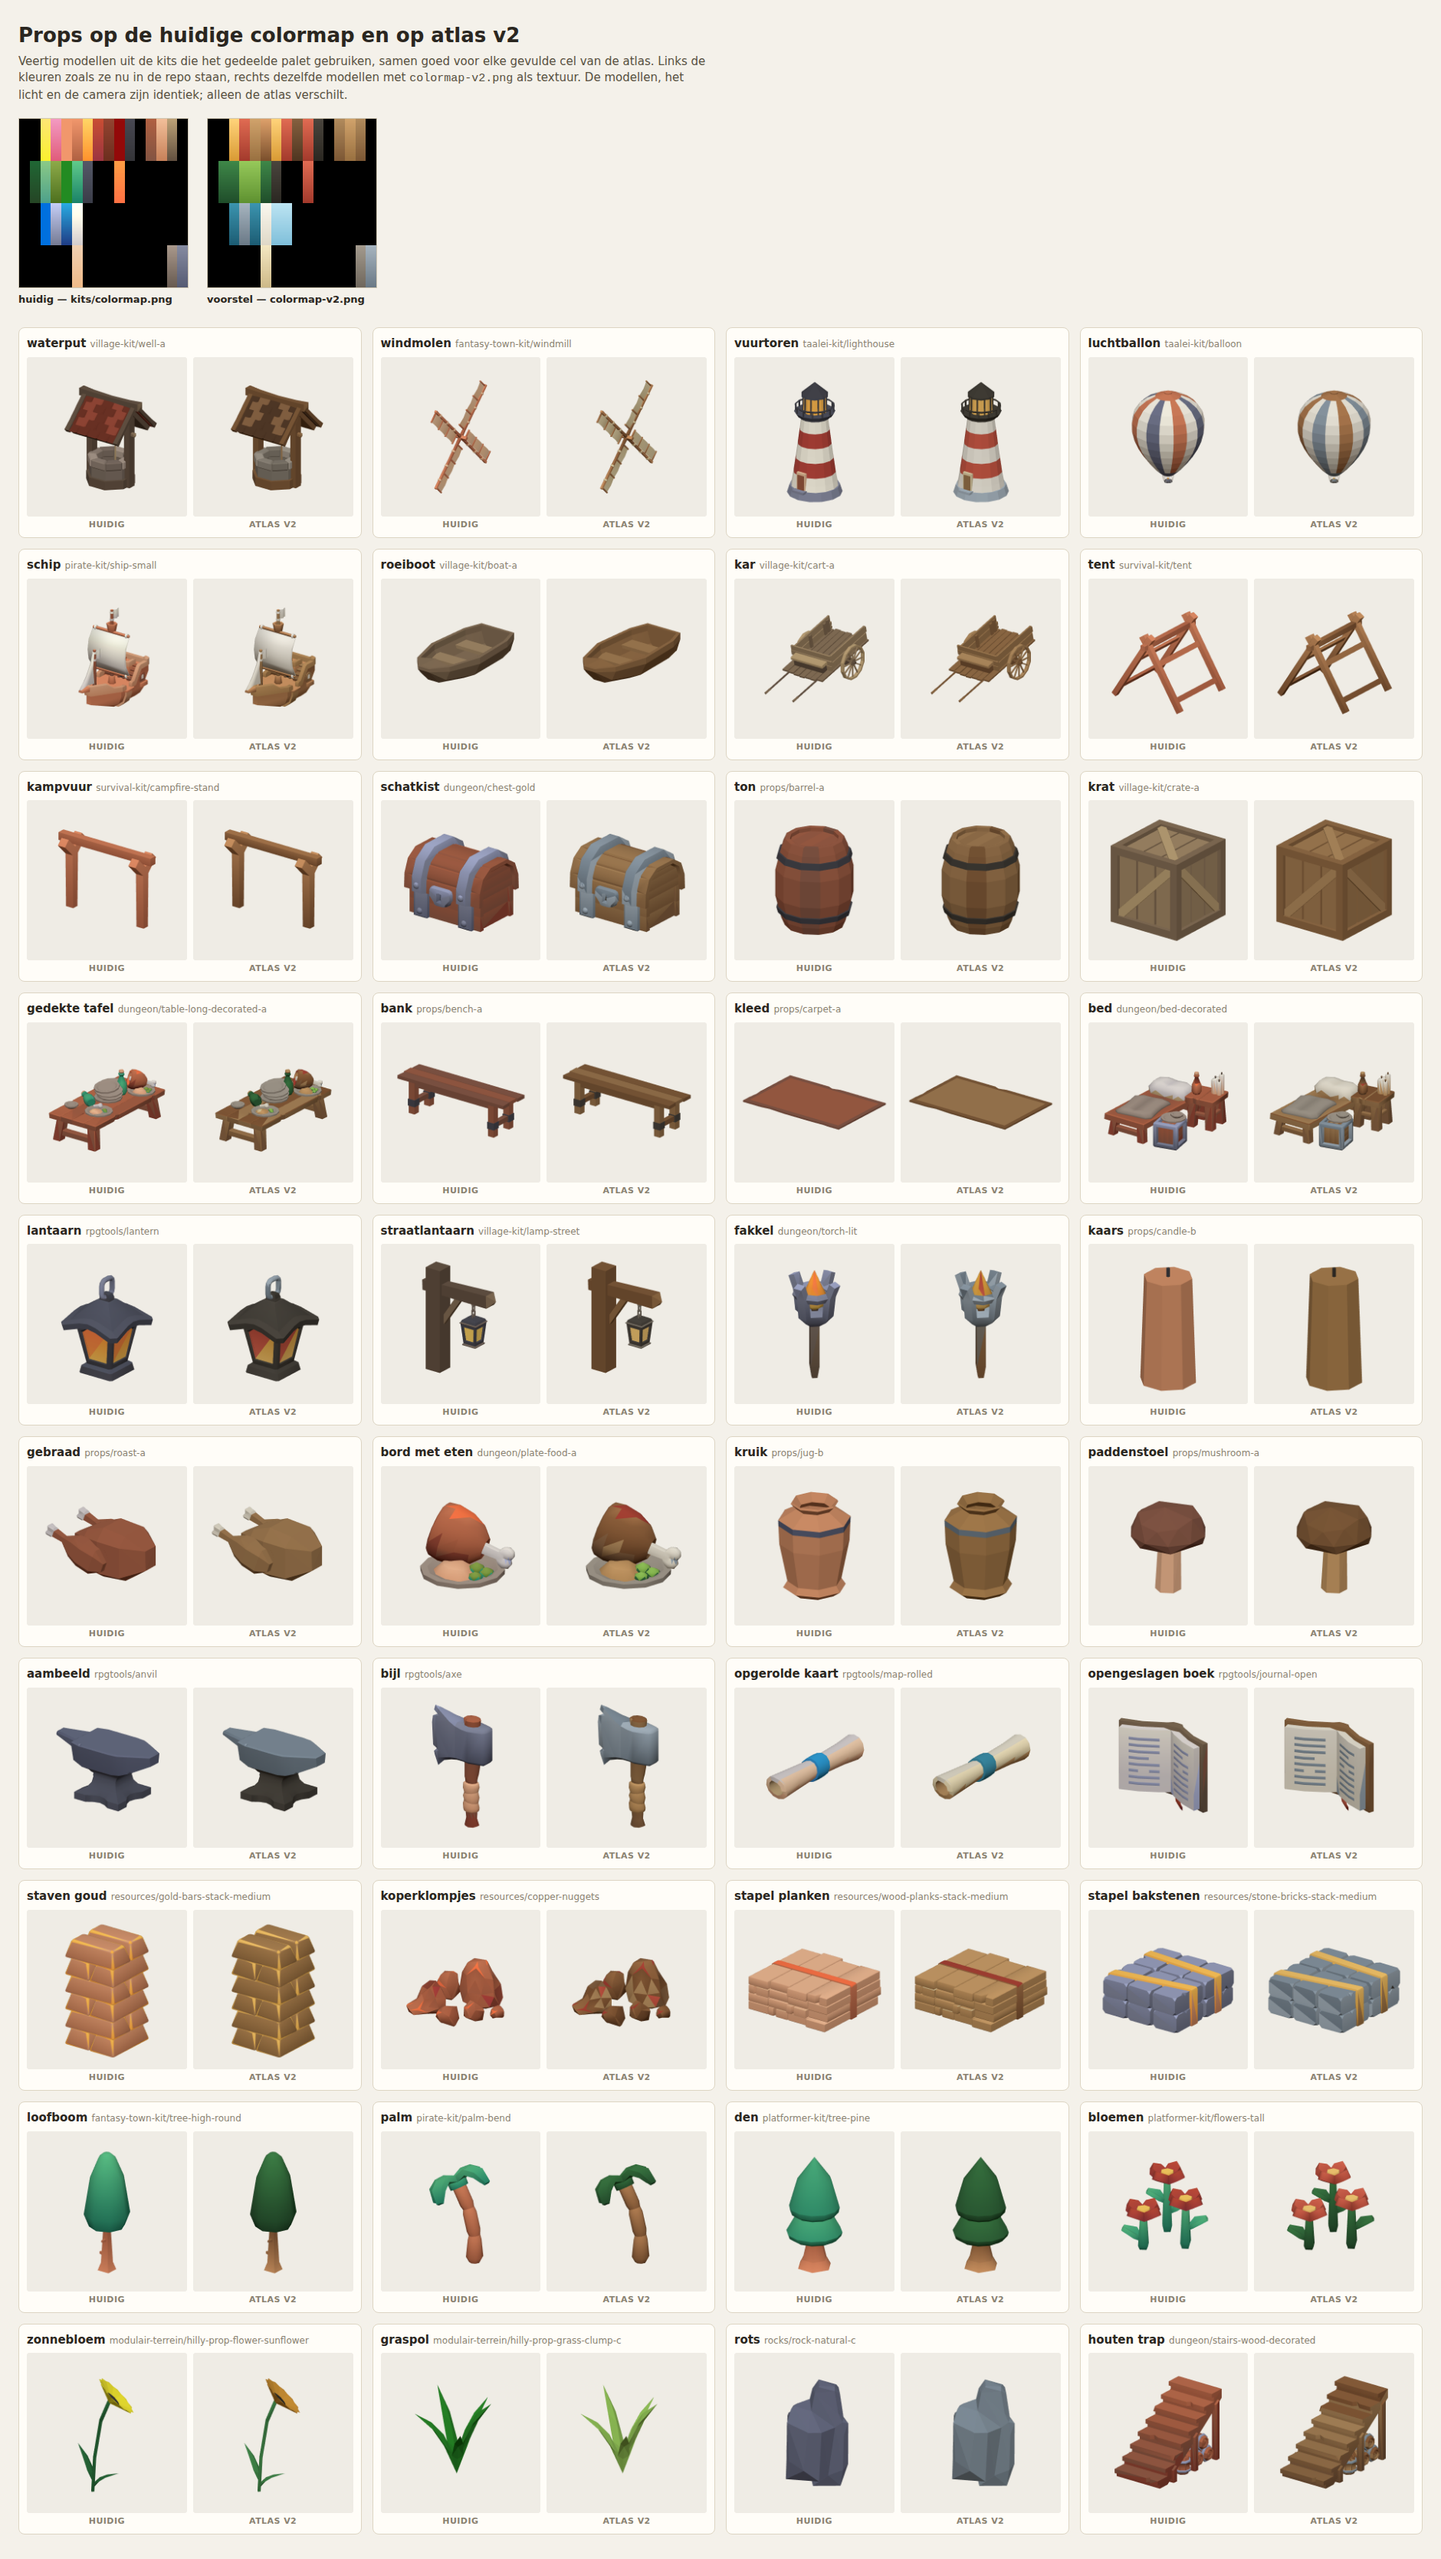
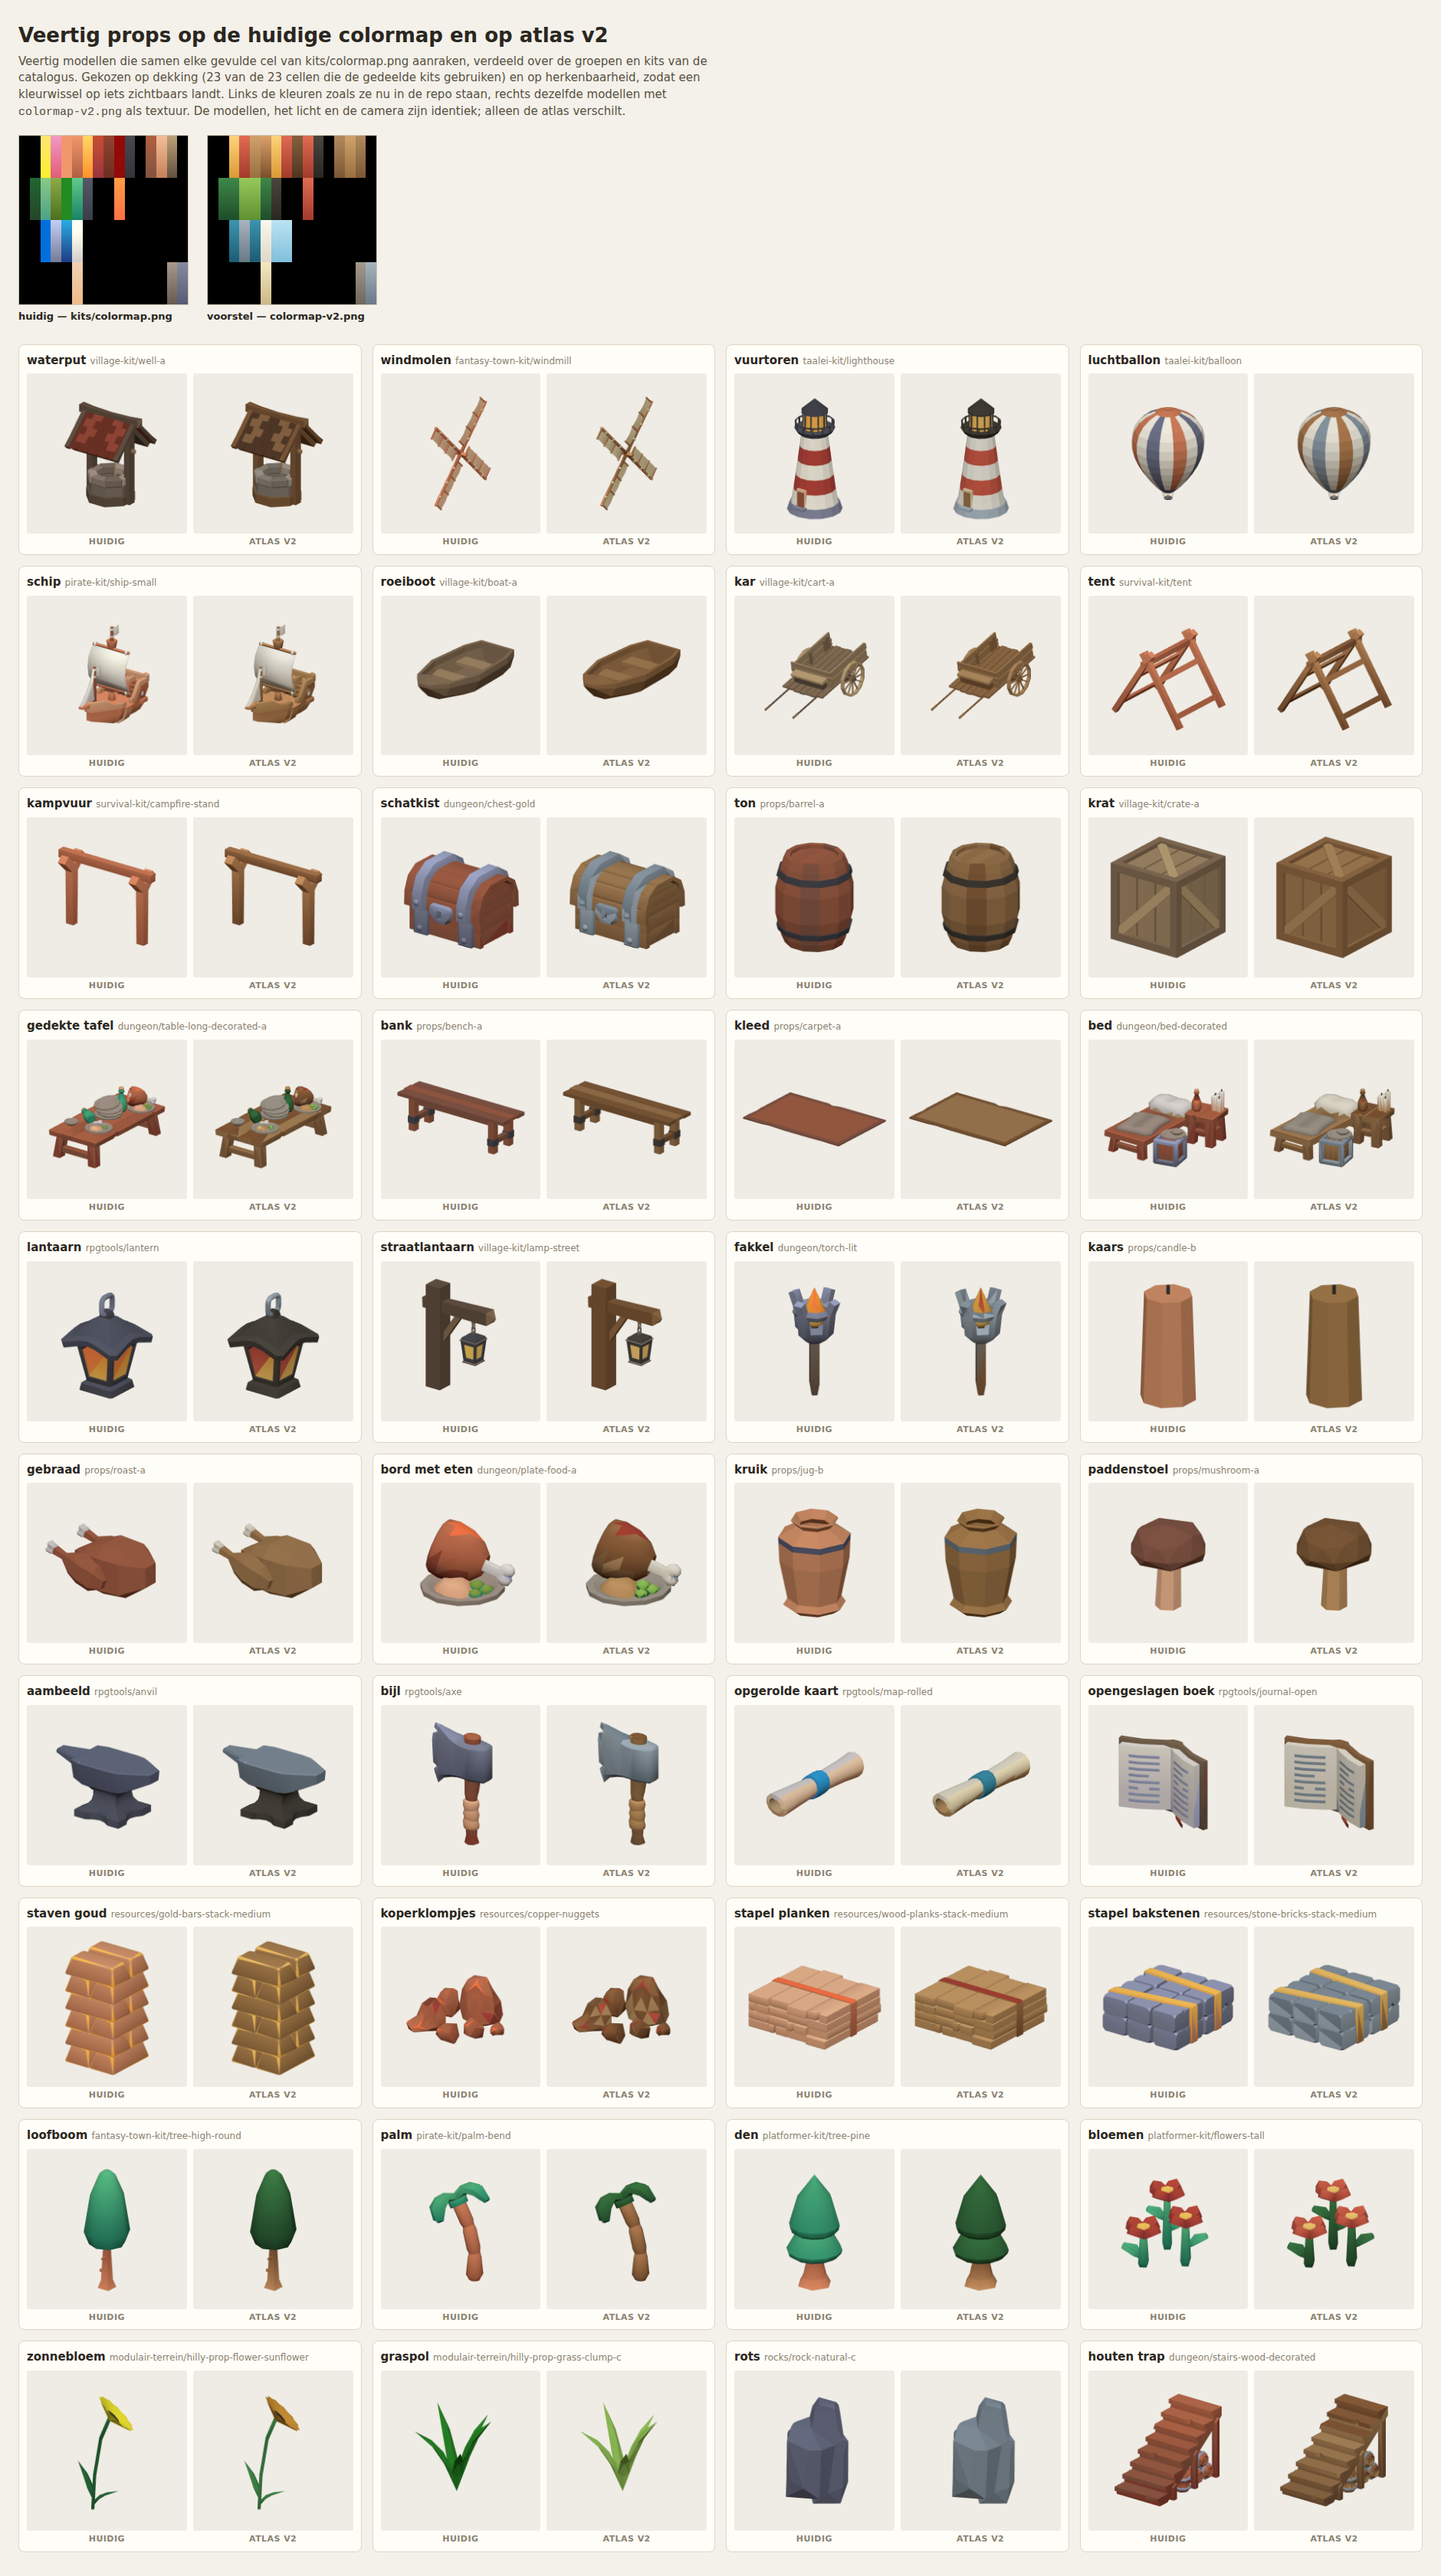
Tweede blad met veertig andere props
props-b.json bevat veertig modellen zonder overlap met props.json, opnieuw
gekozen op dekking — ook deze veertig raken alle 23 cellen die de gedeelde kits
gebruiken — en op spreiding over de groepen van de catalogus. index.html leest
nu welke lijst via ?lijst=, met props.json als standaard, en render.mjs schiet
beide bladen; met een naam erachter alleen dat ene.

diff --git a/tools/vergelijk-kleurmap/index.html b/tools/vergelijk-kleurmap/index.html
@@ -29,10 +29,11 @@
 <body>
 <div id="blad"></div>
 <script type="module">
-/* Rendert elke prop uit props.json twee keer: één keer met de atlas die de kit
+/* Rendert elke prop uit een lijst twee keer: één keer met de atlas die de kit
  * zelf meedraagt (kits/colormap.png) en één keer met colormap-v2.png ernaast.
  * Beide renders delen scène, licht en camera, zodat alleen de textuur verschilt.
- * Wordt aangestuurd door render.mjs, die het blad als PNG wegschrijft. */
+ * Welke lijst het is bepaalt ?lijst=, standaard props.json. Wordt aangestuurd
+ * door render.mjs, die het blad als PNG wegschrijft. */
 addEventListener('error', () => { window.FOUT = true; });
 addEventListener('unhandledrejection', () => { window.FOUT = true; });
 
@@ -111,14 +112,14 @@ function schiet(obj) {
   return data;
 }
 
-const lijst = await (await fetch('./props.json')).json();
+const bestand = new URLSearchParams(location.search).get('lijst') ?? 'props.json';
+const lijst = await (await fetch('./' + bestand)).json();
 const blad = document.getElementById('blad');
 blad.innerHTML = `
-  <h1>Props op de huidige colormap en op atlas v2</h1>
-  <p class="uitleg">Veertig modellen uit de kits die het gedeelde palet gebruiken, samen goed voor
-  elke gevulde cel van de atlas. Links de kleuren zoals ze nu in de repo staan, rechts dezelfde
-  modellen met <code>colormap-v2.png</code> als textuur. De modellen, het licht en de camera zijn
-  identiek; alleen de atlas verschilt.</p>
+  <h1>${lijst.titel}</h1>
+  <p class="uitleg">${lijst.toelichting} Links de kleuren zoals ze nu in de repo staan, rechts
+  dezelfde modellen met <code>colormap-v2.png</code> als textuur. De modellen, het licht en de
+  camera zijn identiek; alleen de atlas verschilt.</p>
   <div class="atlassen">
     <figure><img src="/kits/colormap.png"><figcaption>huidig — kits/colormap.png</figcaption></figure>
     <figure><img src="./colormap-v2.png"><figcaption>voorstel — colormap-v2.png</figcaption></figure>

diff --git a/docs/kleurmap_review.md b/docs/kleurmap_review.md
@@ -6,7 +6,9 @@ die de kits nu meedragen (`kits/colormap.png`) en één keer met de kandidaat
 identiek — alleen de textuur verschilt, want beide atlassen hebben hetzelfde
 raster van 16 × 4 cellen en de UV's blijven waar ze staan.
 
-Het blad staat in [kleurmap_review/props-vergelijking.png](kleurmap_review/props-vergelijking.png).
+Er zijn twee bladen, elk met veertig props en zonder overlap:
+[props-vergelijking.png](kleurmap_review/props-vergelijking.png) en
+[props-vergelijking-b.png](kleurmap_review/props-vergelijking-b.png).
 
 Opnieuw maken vanuit de repo-root:
 
@@ -14,13 +16,18 @@ Opnieuw maken vanuit de repo-root:
 NODE_PATH=$(npm root -g) node tools/vergelijk-kleurmap/render.mjs
 ```
 
-## Keuze van de veertig
+Zonder argument komen beide bladen langs; met een naam erachter alleen dat blad,
+bijvoorbeeld `... render.mjs props-vergelijking-b`.
 
-De props in `tools/vergelijk-kleurmap/props.json` zijn zo gekozen dat ze samen
-elke cel raken die de kits met het gedeelde palet gebruiken — 23 van de 23 — en
-dat ze over de groepen van de catalogus verdeeld liggen: bouwwerken, schepen,
-opslag, huisraad, licht, eten, gereedschap, grondstoffen, bomen, planten,
-rotsen en verbindingen. Een kleurwissel landt zo altijd op iets herkenbaars.
+## Keuze van de props
+
+De lijsten staan in `tools/vergelijk-kleurmap/props.json` en `props-b.json`. Elk
+van de twee is zo gekozen dat de veertig samen elke cel raken die de kits met
+het gedeelde palet gebruiken — 23 van de 23 — en dat ze over de groepen van de
+catalogus verdeeld liggen: bouwwerken, schepen, opslag, huisraad, licht, eten,
+gereedschap, grondstoffen, bomen, planten, rotsen en verbindingen. Een
+kleurwissel landt zo altijd op iets herkenbaars. De twee lijsten delen geen
+enkel model, dus samen laten ze tachtig verschillende props zien.
 
 ## Cel 5,0 — de houtbaan
 
